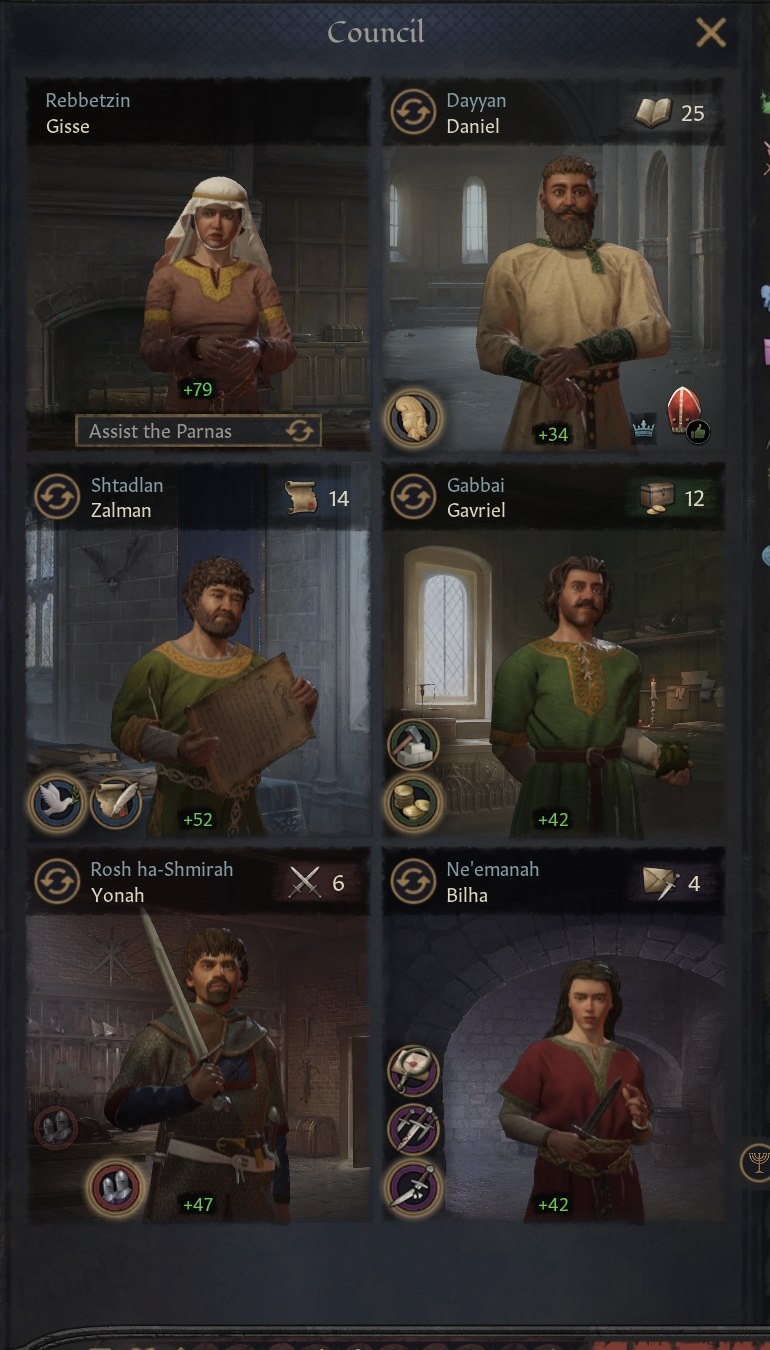
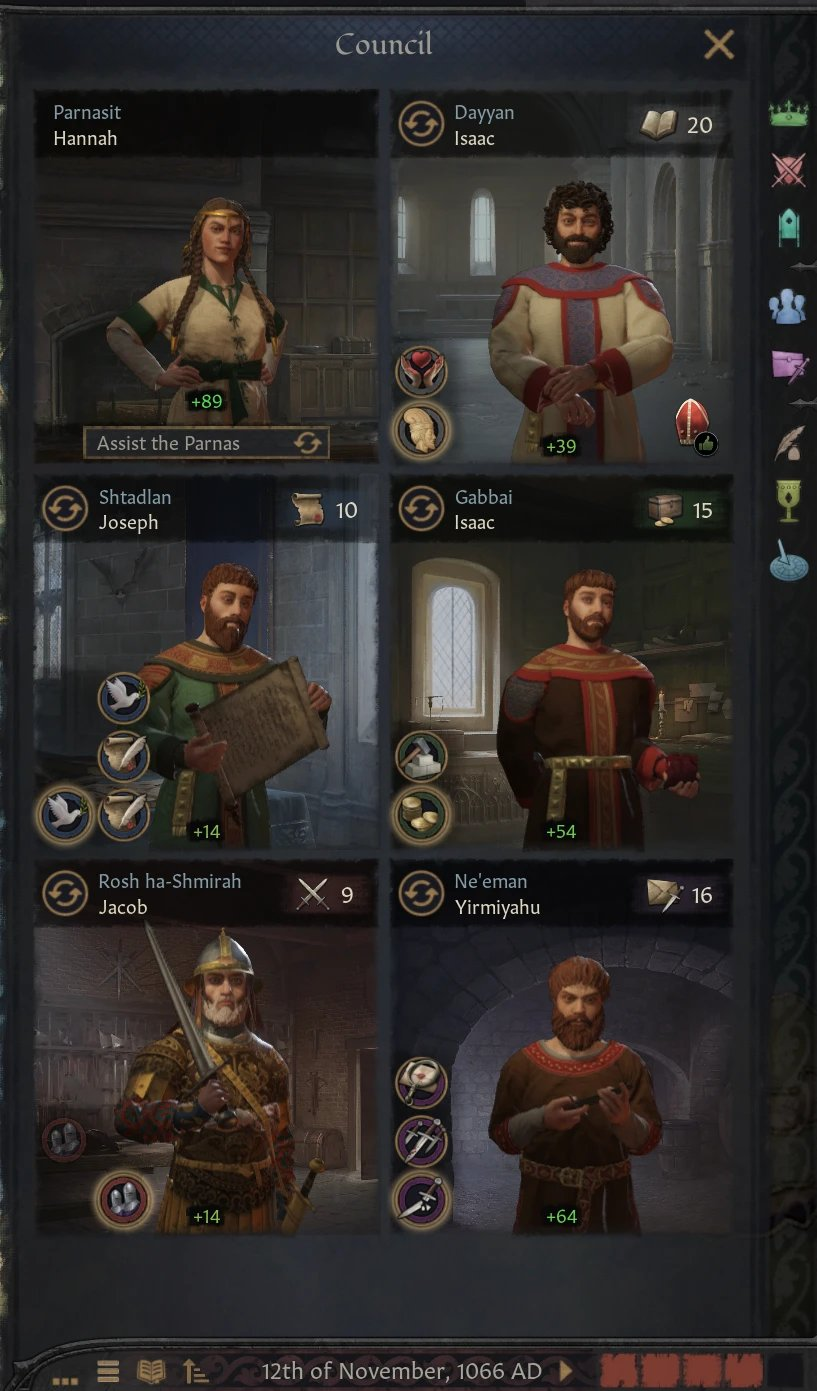
Gallery: add 20 new Granada, Troyes and rite screenshots
Fills five placeholders (realm view, library shelf, Sefarim Ledger,
crisis situation, rites and tenets) and adds new figures for the
Granada Domain, host charter contract, Community Safety, the Sinister
Verses event, a Bet Din invitation, the Rabbi trait tracks, the
Hakhamim list and the other two library shelves. The council shot
replaces the earlier-build capture.

Captures were cropped to remove debug map-ID hovers and debug
map-mode buttons, then saved as JPG at quality 85.

diff --git a/docs/assets/site.css b/docs/assets/site.css
@@ -114,6 +114,8 @@ p { margin: 0 0 1.15rem; }
 .shot figcaption strong { color: var(--ink); }
 .shot-grid { display: grid; grid-template-columns: repeat(2, minmax(0, 1fr)); gap: 0 1.2rem; align-items: start; }
 .shot-grid .shot { margin: .7rem 0 1rem; }
+.shot-grid--3 { grid-template-columns: repeat(3, minmax(0, 1fr)); }
+.shot--narrow { max-width: 420px; }
 .shot__badge { display: inline-block; margin-right: .3rem; padding: .05rem .45rem; background: #eef2f2; color: #5b6a71; font-size: .66rem; font-weight: 700; letter-spacing: .05em; text-transform: uppercase; }
 .shot--todo { border: 2px dashed #c8a995; background: var(--accent-soft); }
 .shot__frame { aspect-ratio: 16 / 9; display: flex; flex-direction: column; align-items: center; justify-content: center; gap: .4rem; padding: 1.2rem; text-align: center; color: #7a6458; background: repeating-linear-gradient(135deg, #f5f0ed 0 14px, #efe7e2 14px 28px); }

diff --git a/docs/wiki/gallery.md b/docs/wiki/gallery.md
@@ -75,6 +75,11 @@ Each 1066 seat begins a different story. See the [quick starts](three-starts.md)
 </figure>
 
 <figure class="shot">
+  <img src="../images/granada-domain.jpg" alt="Granada's My Realm panel showing its Jewish Quarter, standing, danger, pillars and monthly income" loading="lazy">
+  <figcaption><strong>Granada under pressure.</strong> Nagid Yosef's community is prosperous and learned, but its Domain view flags it as Dangerous and in crisis. Income shows what the Quarter, Prosperity and tribute to the host each add or take.</figcaption>
+</figure>
+
+<figure class="shot">
   <img src="../images/granada-jewish-quarter.jpg" alt="The illustrated Granada Jewish Quarter" loading="lazy">
   <figcaption><strong>Granada's Jewish Quarter.</strong> Synagogue, house of debate, ledger room, market and other buildings each have an illustrated place. Cropped to remove debug map controls.</figcaption>
 </figure>
@@ -94,9 +99,9 @@ Each 1066 seat begins a different story. See the [quick starts](three-starts.md)
   <figcaption><strong>The Jewish world map.</strong> The map mode colours where communities live, from Iberia to the Rhineland and the Near East. <span class="shot__how">Capture: Jewish category in the map-mode bar, zoomed out over Europe and the Mediterranean, with no debug ID hovers.</span></figcaption>
 </figure>
 
-<figure class="shot shot--todo">
-  <div class="shot__frame"><span class="shot__tag">Screenshot needed</span><code>realm-view-communities.jpg</code><span>Realm view · all communities in one host realm</span></div>
-  <figcaption><strong>A realm's communities together.</strong> The realm view lists every Kehillah under one host. <span class="shot__how">Capture: open the realm view for a host with several communities (e.g. Castile or the Holy Roman Empire).</span></figcaption>
+<figure class="shot">
+  <img src="../images/realm-view-communities.jpg" alt="The Jewish Communities in Garnatah window, listing Granada and Malaga under Emir Badis" loading="lazy">
+  <figcaption><strong>A realm's communities together.</strong> Garnatah's view shows Emir Badis, his policy and outlook, both of his communities (most endangered first), Granada's charter terms and ten years of realm news.</figcaption>
 </figure>
 
 <figure class="shot shot--todo">
@@ -118,15 +123,46 @@ Each 1066 seat begins a different story. See the [quick starts](three-starts.md)
 
 ## Books and learning
 
-<figure class="shot shot--todo">
-  <div class="shot__frame"><span class="shot__tag">Screenshot needed</span><code>library-troyes-shelf.jpg</code><span>Quarter → Beit Midrash → library, Talmudics selected</span></div>
-  <figcaption><strong>The library shelf.</strong> Troyes's physical copies, sorted by subject. <span class="shot__how">Capture: Rashi at Troyes, open the library and select Talmudics so the book art fills the shelves. A clean (non-debug) reshoot of the 2026-11-16 internal capture.</span></figcaption>
+<figure class="shot">
+  <img src="../images/library-granada-shelf.jpg" alt="Granada's Beit Midrash library with the Talmudics shelf selected and Talmud Bavli: Nezikin open below" loading="lazy">
+  <figcaption><strong>The library shelf.</strong> Granada's Beit Midrash holds its physical copies, sorted by subject. Each book shows its canonicity, author, language and whether you have mastered it.</figcaption>
 </figure>
 
-<figure class="shot shot--todo">
-  <div class="shot__frame"><span class="shot__tag">Screenshot needed</span><code>sefarim-ledger.jpg</code><span>Library · Sefarim Ledger</span></div>
-  <figcaption><strong>The Sefarim Ledger.</strong> About 170 historical works, ranked for the selected rite. <span class="shot__how">Capture: open the Sefarim Ledger and show a comparison with another tradition if possible.</span></figcaption>
+<div class="shot-grid">
+<figure class="shot">
+  <img src="../images/library-parshanut.jpg" alt="The Parshanut shelf with the Torah in its ark" loading="lazy">
+  <figcaption><strong>Parshanut.</strong> The Torah sits in its ark among the commentaries.</figcaption>
 </figure>
+
+<figure class="shot">
+  <img src="../images/library-machshavah.jpg" alt="The Machshavah shelf with the Theology of Aristotle open on a lectern" loading="lazy">
+  <figcaption><strong>Machshavah.</strong> Philosophy, including the contested Theology of Aristotle.</figcaption>
+</figure>
+</div>
+
+<div class="shot-grid">
+<figure class="shot">
+  <img src="../images/sefarim-ledger.jpg" alt="The Ledger of Sefarim ranked for Minhag Sepharad, with Anan's Sefer ha-Mitzvot shown as Banned" loading="lazy">
+  <figcaption><strong>The Sefarim Ledger.</strong> Every work your community knows, ranked for your rite. Under Minhag Sepharad, Anan's Karaite code is Banned.</figcaption>
+</figure>
+
+<figure class="shot">
+  <img src="../images/sefarim-ledger-karaism.jpg" alt="The same Ledger of Sefarim ranked for Karaism, with Anan's Sefer ha-Mitzvot shown as Authoritative" loading="lazy">
+  <figcaption><strong>Another tradition's view.</strong> Switch the ledger to Karaism and the same book is Authoritative.</figcaption>
+</figure>
+</div>
+
+<div class="shot-grid">
+<figure class="shot">
+  <img src="../images/rabbi-trait-path.jpg" alt="The Rabbi trait tooltip for Rashi, showing the Parshanut, Talmudics and Machshavah tracks" loading="lazy">
+  <figcaption><strong>The Rabbi trait.</strong> Three tracks of study, Parshanut, Talmudics and Machshavah, each with its own levels and rewards.</figcaption>
+</figure>
+
+<figure class="shot">
+  <img src="../images/hakhamim.jpg" alt="The Hakhamim clergy list, ranking rabbis from Mainz, Seville, Worms, Jerusalem, Sura, Fez, Mahdia and Otranto" loading="lazy">
+  <figcaption><strong>The Hakhamim.</strong> The Rabbinic faith's clergy: rabbis from Mainz to Sura, ranked side by side.</figcaption>
+</figure>
+</div>
 
 <div class="shot-grid">
 <figure class="shot shot--todo">
@@ -155,9 +191,9 @@ Each 1066 seat begins a different story. See the [quick starts](three-starts.md)
 ## Council, succession and decisions
 
 <div class="shot-grid">
-<figure class="shot shot--old">
-  <img src="../images/council.jpg" alt="The five-seat community council with portraits of each officer" loading="lazy">
-  <figcaption><span class="shot__badge">Earlier build</span> <strong>The council.</strong> Shtadlan, Gabbai, Rosh ha-Shmirah, Ne'eman and Dayyan, each with a task.</figcaption>
+<figure class="shot">
+  <img src="../images/council.jpg" alt="Granada's council: Parnasit, Dayyan, Shtadlan, Gabbai, Rosh ha-Shmirah and Ne'eman, each with a portrait" loading="lazy">
+  <figcaption><strong>The council.</strong> The Parnasit beside the Dayyan, Shtadlan, Gabbai, Rosh ha-Shmirah and Ne'eman, each with a task.</figcaption>
 </figure>
 
 <figure class="shot shot--old">
@@ -198,6 +234,11 @@ Each 1066 seat begins a different story. See the [quick starts](three-starts.md)
 <figure class="shot">
   <img src="../images/bet-din-sitting.jpg" alt="A Bet Din sitting concludes with three judges" loading="lazy">
   <figcaption><strong>A Bet Din sitting.</strong> The conclusion of a sitting, with the host and two guest judges.</figcaption>
+</figure>
+
+<figure class="shot">
+  <img src="../images/bet-din-invitation.jpg" alt="An invitation from Parnas Isaac of Burgos to join his Sitting of the Bet Din" loading="lazy">
+  <figcaption><strong>An invitation to sit.</strong> Other communities invite you to their Bet Din. Parnas Isaac of Burgos writes to Nagid Yosef of Granada.</figcaption>
 </figure>
 
 <figure class="shot shot--todo">
@@ -265,6 +306,11 @@ Holidays follow the Hebrew calendar and arrive as household events, with differe
   <figcaption><span class="shot__badge">Earlier build</span> <strong>The Charter Renewed.</strong> The host confirms the community's terms for building, protection, jurisdiction and study.</figcaption>
 </figure>
 
+<figure class="shot">
+  <img src="../images/host-charter-contract.jpg" alt="The Muslim Host Charter Contract between Emir Badis and Nagid Yosef, with tribute, construction, security, jurisdiction and market terms" loading="lazy">
+  <figcaption><strong>Negotiating the charter.</strong> Tribute, building rights, security, jurisdiction and market access are terms you can ask the host to change.</figcaption>
+</figure>
+
 <figure class="shot shot--todo">
   <div class="shot__frame"><span class="shot__tag">Screenshot needed</span><code>settlement-policy.jpg</code><span>Realm laws · Jewish Settlement Policy</span></div>
   <figcaption><strong>Jewish Settlement Policy.</strong> A realm-wide law from Banned to Encouraged. <span class="shot__how">Capture: the host ruler's realm laws with the policy row and its tooltip visible.</span></figcaption>
@@ -280,9 +326,19 @@ Holidays follow the Hebrew calendar and arrive as household events, with differe
   <figcaption><span class="shot__badge">Earlier build</span> <strong>An Accusation.</strong> A false charge spreads, and the community must choose how to answer it.</figcaption>
 </figure>
 
-<figure class="shot shot--todo">
-  <div class="shot__frame"><span class="shot__tag">Screenshot needed</span><code>crisis-situation.jpg</code><span>Situation window · Armed Host vs Spared</span></div>
-  <figcaption><strong>A community threat.</strong> Two totals race each other while the window suggests responses. <span class="shot__how">Capture: an active threat from the Situations list, with both bars and the suggested actions showing.</span></figcaption>
+<figure class="shot">
+  <img src="../images/event-sinister-verses.jpg" alt="Crisis event Sinister Verses: a clerk brings Nagid Yosef a hostile poem by Abu Ishaq of Elvira" loading="lazy">
+  <figcaption><strong>Sinister Verses.</strong> In Granada, a hostile poem by Abu Ishaq of Elvira reaches the Nagid, and how he answers it shapes the crisis.</figcaption>
+</figure>
+
+<figure class="shot">
+  <img src="../images/crisis-situation.jpg" alt="The Danger to the Kehillah of Granada situation, with Armed host and Spared takeover points and three actions" loading="lazy">
+  <figcaption><strong>A community threat.</strong> Armed host and Spared race toward 100 while catalysts push the totals and the window offers responses.</figcaption>
+</figure>
+
+<figure class="shot shot--narrow">
+  <img src="../images/community-safety.jpg" alt="The Military window's Community Safety tab, with the crisis under way, danger, sources of pressure and protection" loading="lazy">
+  <figcaption><strong>Community Safety.</strong> The Military window lists crises under way, the yearly danger, its sources and what protects the community.</figcaption>
 </figure>
 
 <figure class="shot shot--todo">
@@ -333,13 +389,39 @@ Custom art made for the mod. Composite sheets work well here: crop several icons
 </figure>
 
 <figure class="shot shot--todo">
-  <div class="shot__frame"><span class="shot__tag">Screenshot needed</span><code>art-faith-tenets.jpg</code><span>Faith view · rites and tenets</span></div>
-  <figcaption><strong>Rites and tenets.</strong> <span class="shot__how">Capture: the faith window for a medieval rite with the custom tenet icons visible.</span></figcaption>
-</figure>
-
-<figure class="shot shot--todo">
   <div class="shot__frame"><span class="shot__tag">Screenshot needed</span><code>art-community-arms.jpg</code><span>Coats of arms · community emblems</span></div>
   <figcaption><strong>Community emblems.</strong> <span class="shot__how">Composite of three or four Kehillah coats of arms.</span></figcaption>
+</figure>
+</div>
+
+### Rites and tenets
+
+Each rite of the Rabbinic faith has its own icon, tenets, sins and virtues.
+
+<div class="shot-grid shot-grid--3">
+<figure class="shot">
+  <img src="../images/rite-bavli.jpg" alt="Minhag Bavli, the mainline rite, with Religious Law, Covenant Community and Scholarly Study" loading="lazy">
+  <figcaption><strong>Minhag Bavli.</strong> The mainline rite.</figcaption>
+</figure>
+
+<figure class="shot">
+  <img src="../images/rite-ashkenaz.jpg" alt="Minhag Ashkenaz with Asceticism, Covenant Community and Scholarly Study" loading="lazy">
+  <figcaption><strong>Minhag Ashkenaz.</strong></figcaption>
+</figure>
+
+<figure class="shot">
+  <img src="../images/rite-sepharad.jpg" alt="Minhag Sepharad with Religious Law, Reasoned Theology and Sacred Liturgy" loading="lazy">
+  <figcaption><strong>Minhag Sepharad.</strong></figcaption>
+</figure>
+
+<figure class="shot">
+  <img src="../images/rite-yerushalmi.jpg" alt="Minhag Yerushalmi with Ritual Celebrations, Covenant Community and Sacred Homeland" loading="lazy">
+  <figcaption><strong>Minhag Yerushalmi.</strong></figcaption>
+</figure>
+
+<figure class="shot">
+  <img src="../images/rite-merkavah.jpg" alt="Yordei Merkavah with Esotericism, Inner Journey and Sacred Liturgy" loading="lazy">
+  <figcaption><strong>Yordei Merkavah.</strong> The mystics.</figcaption>
 </figure>
 </div>
 
